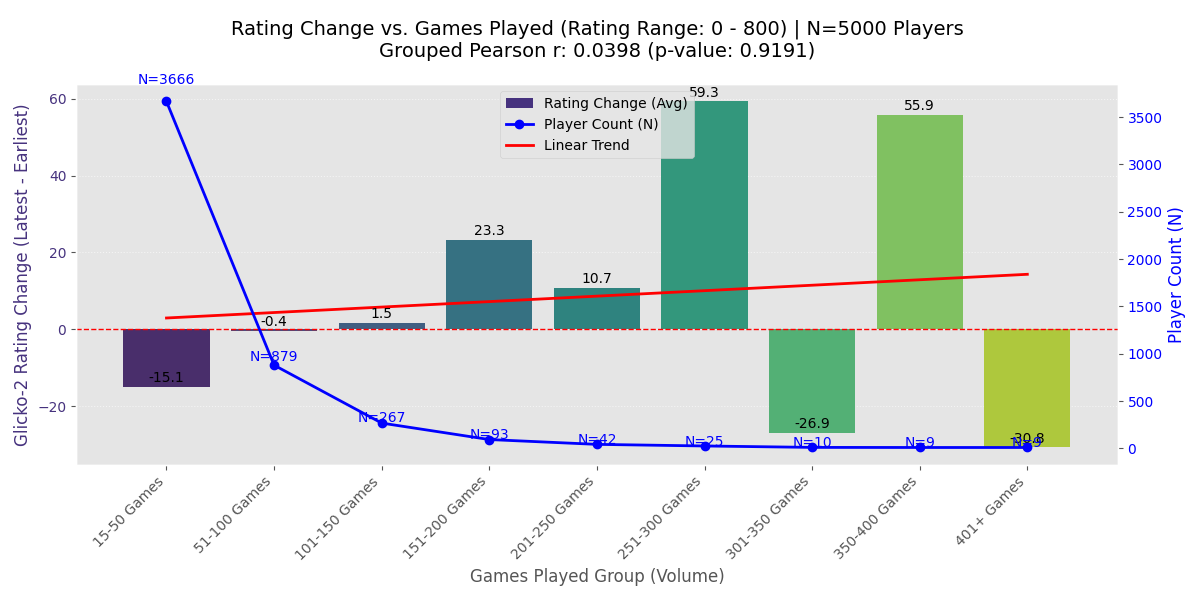
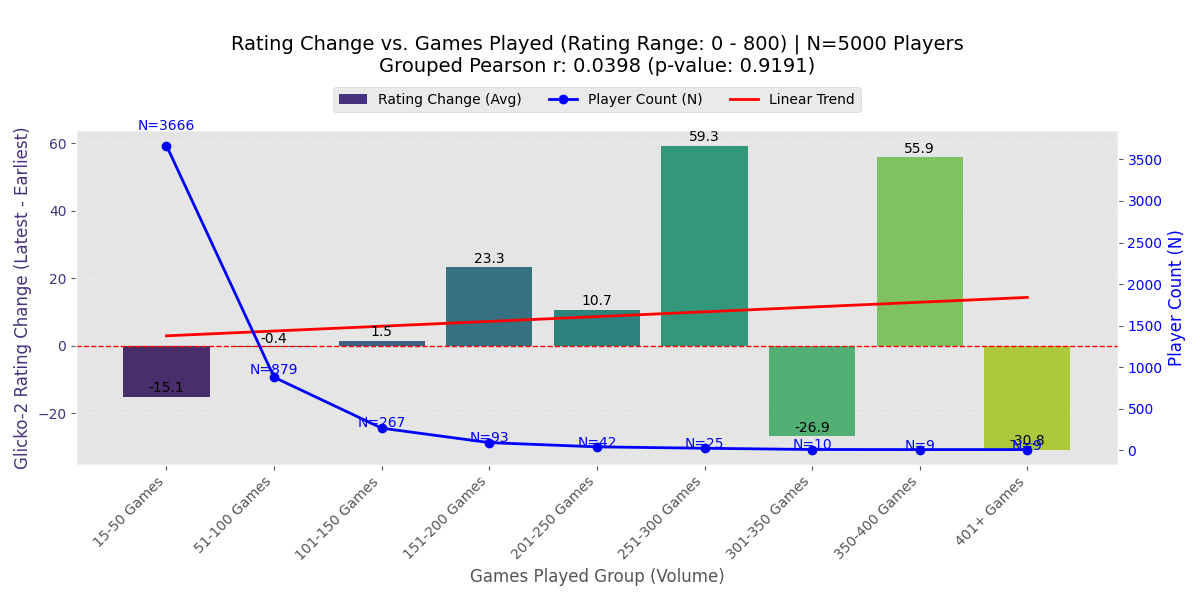
unobscure legend, format p-value, rebuild visualizations

diff --git a/analyze_and_visualize_correlation_games_vs_rating_change.py b/analyze_and_visualize_correlation_games_vs_rating_change.py
@@ -8,18 +8,16 @@ import io
 import re
 import sys
 
-# TODO: investigate 0 p-values: is that due to rounding, or is something wonky happening?
-
 # --- Configuration ---
-INPUT_CSV_PATH = 'lichess-beginner-data-mining/2024_01_rapid_players_rated_801-1600_results.csv'
-OUTPUT_CSV_PATH = 'lichess-beginner-data-mining/2024_01_rapid_players_rated_801-1600_correlation_results.csv'
-OUTPUT_PLOT_PATH = 'lichess-beginner-data-mining/2024_01_rapid_players_rated_801-1600_correlation_games_vs_rating_change.png'
-OUTPUT_BIN_PLOT_PATH = 'lichess-beginner-data-mining/2024_01_rapid_players_rated_801-1600_correlation_rating_gain_by_bin.png'
-OUTPUT_DAYS_PLOT_PATH = 'lichess-beginner-data-mining/2024_01_rapid_players_rated_801-1600_correlation_days_vs_rating_change.png'
-OUTPUT_DAYS_BIN_PLOT_PATH = 'lichess-beginner-data-mining/2024_01_rapid_players_rated_801-1600_correlation_rating_gain_by_days_bin.png'
+INPUT_CSV_PATH = 'lichess-beginner-data-mining/2024_01_rapid_players_rated_0-800_results.csv'
+OUTPUT_CSV_PATH = 'lichess-beginner-data-mining/2024_01_rapid_players_rated_0-800_correlation_results.csv'
+OUTPUT_PLOT_PATH = 'lichess-beginner-data-mining/2024_01_rapid_players_rated_0-800_correlation_games_vs_rating_change.png'
+OUTPUT_BIN_PLOT_PATH = 'lichess-beginner-data-mining/2024_01_rapid_players_rated_0-800_correlation_rating_gain_by_bin.png'
+OUTPUT_DAYS_PLOT_PATH = 'lichess-beginner-data-mining/2024_01_rapid_players_rated_0-800_correlation_days_vs_rating_change.png'
+OUTPUT_DAYS_BIN_PLOT_PATH = 'lichess-beginner-data-mining/2024_01_rapid_players_rated_0-800_correlation_rating_gain_by_days_bin.png'
 
-MIN_RATING_FILTER = 801
-MAX_RATING_FILTER = 1600
+MIN_RATING_FILTER = 0
+MAX_RATING_FILTER = 800
 
 # Define bins for the grouped analysis (Games Played)
 GAME_BINS = [15, 50, 100, 150, 200, 250, 300, 350, 400, np.inf]
@@ -28,6 +26,12 @@ BIN_LABELS = ['15-50 Games', '51-100 Games', '101-150 Games', '151-200 Games', '
 # Bins for days played
 DAYS_BINS = [0, 5, 10, 15, 20, 25, np.inf]
 DAYS_BIN_LABELS = ['1-5 Days', '6-10 Days', '11-15 Days', '16-20 Days', '21-25 Days', '26-30+ Days']
+
+# Helper function for p-value formatting
+def format_p_value(p_value):
+    if p_value < 0.001:
+        return "p < 0.001"
+    return f"p-value: {p_value:.4f}"
 
 # --- Analysis Function ---
 
@@ -74,7 +78,7 @@ def run_correlation_analysis(df: pd.DataFrame):
         ]
     })
     
-    print(f"Raw Pearson Correlation (Games): {correlation_games:.4f} (P-Value: {p_value_games:.4f})")
+    print(f"Raw Pearson Correlation (Games): {correlation_games:.4f} (P-Value: {p_value_games:.4e})")
     
     # ----------------------------------------------------
     # ANALYSIS METHOD 6: PEARSON CORRELATION (Days Played vs. Rating Change)
@@ -90,7 +94,7 @@ def run_correlation_analysis(df: pd.DataFrame):
     ])
     results_df = pd.concat([results_df, days_corr_results], ignore_index=True)
 
-    print(f"Raw Pearson Correlation (Days): {correlation_days:.4f} (P-Value: {p_value_days:.4f})")
+    print(f"Raw Pearson Correlation (Days): {correlation_days:.4f} (P-Value: {p_value_days:.4e})")
 
     # ----------------------------------------------------
     # ANALYSIS METHOD 3: BINNING AND GROUPED AVERAGES (Games Played)
@@ -153,7 +157,7 @@ def run_correlation_analysis(df: pd.DataFrame):
     grouped_correlation_games, grouped_p_value_games = pearsonr(avg_games, avg_gain_games)
 
     print("\n--- Grouped Correlation Analysis (Games Bins) ---")
-    print(f"Grouped Pearson Correlation (Games): {grouped_correlation_games:.4f} (P-Value: {grouped_p_value_games:.4f})")
+    print(f"Grouped Pearson Correlation (Games): {grouped_correlation_games:.4f} (P-Value: {grouped_p_value_games:.4e})")
     
     # Append results to the main results DataFrame
     grouped_corr_results_games = pd.DataFrame([
@@ -174,7 +178,7 @@ def run_correlation_analysis(df: pd.DataFrame):
     grouped_correlation_days, grouped_p_value_days = pearsonr(avg_days, avg_gain_days)
 
     print("\n--- Grouped Correlation Analysis (Days Bins) ---")
-    print(f"Grouped Pearson Correlation (Days): {grouped_correlation_days:.4f} (P-Value: {grouped_p_value_days:.4f})")
+    print(f"Grouped Pearson Correlation (Days): {grouped_correlation_days:.4f} (P-Value: {grouped_p_value_days:.4e})")
     
     # Append results to the main results DataFrame
     grouped_corr_results_days = pd.DataFrame([
@@ -210,7 +214,7 @@ def run_correlation_analysis(df: pd.DataFrame):
     plt.xlim(15, 400) 
     
     plt.title(
-        f'Games Played vs. Rating Change ({RATING_RANGE_STR}) | N={TOTAL_PLAYERS_N} Players\nRaw Pearson r: {correlation_games:.4f} (p-value: {p_value_games:.4f})', 
+        f'Games Played vs. Rating Change ({RATING_RANGE_STR}) | N={TOTAL_PLAYERS_N} Players\nRaw Pearson r: {correlation_games:.4f} ({format_p_value(p_value_games)})', 
         fontsize=14
     )    
     plt.xlabel('Total Games Played in January (X)')
@@ -245,7 +249,7 @@ def run_correlation_analysis(df: pd.DataFrame):
     plt.xlim(0, 31) 
     
     plt.title(
-        f'Days Played vs. Rating Change ({RATING_RANGE_STR}) | N={TOTAL_PLAYERS_N} Players\nRaw Pearson r: {correlation_days:.4f} (p-value: {p_value_days:.4f})', 
+        f'Days Played vs. Rating Change ({RATING_RANGE_STR}) | N={TOTAL_PLAYERS_N} Players\nRaw Pearson r: {correlation_days:.4f} ({format_p_value(p_value_days)})', 
         fontsize=14
     )    
     plt.xlabel('Number of Days Played in January (X)')
@@ -294,9 +298,9 @@ def run_correlation_analysis(df: pd.DataFrame):
     # ---------------------------------------------
     
     ax1.set_title(
-        f'Rating Change vs. Games Played ({RATING_RANGE_STR}) | N={TOTAL_PLAYERS_N} Players\nGrouped Pearson r: {grouped_correlation_games:.4f} (p-value: {grouped_p_value_games:.4f})', 
+        f'Rating Change vs. Games Played ({RATING_RANGE_STR}) | N={TOTAL_PLAYERS_N} Players\nGrouped Pearson r: {grouped_correlation_games:.4f} ({format_p_value(grouped_p_value_games)})', 
         fontsize=14, 
-        y=1.05
+        y=1.15
     )
     
     ax1.set_xlabel('Games Played Group (Volume)')
@@ -346,7 +350,14 @@ def run_correlation_analysis(df: pd.DataFrame):
         )
         
     bar_legend = [plt.Rectangle((0,0),1,1, fc=sns.color_palette('viridis')[0])]
-    ax1.legend(bar_legend + line_plot + reg_plot_games, ['Rating Change (Avg)', 'Player Count (N)', 'Linear Trend'], loc='upper center')
+    ax1.legend(
+        bar_legend + line_plot + reg_plot_games, 
+        ['Rating Change (Avg)', 'Player Count (N)', 'Linear Trend'], 
+        loc='upper center',
+        bbox_to_anchor=(0.5, 1.15), # Places the legend above the chart title box
+        ncol=3,
+        frameon=True
+    )
     
     fig.tight_layout() 
     
@@ -388,9 +399,9 @@ def run_correlation_analysis(df: pd.DataFrame):
     # ---------------------------------------------
 
     ax1.set_title(
-        f'Rating Change vs. Days Played ({RATING_RANGE_STR}) | N={TOTAL_PLAYERS_N} Players\nGrouped Pearson r: {grouped_correlation_days:.4f} (p-value: {grouped_p_value_days:.4f})', 
+        f'Rating Change vs. Days Played ({RATING_RANGE_STR}) | N={TOTAL_PLAYERS_N} Players\nGrouped Pearson r: {grouped_correlation_days:.4f} ({format_p_value(grouped_p_value_days)})', 
         fontsize=14, 
-        y=1.05
+        y=1.15
     )
     
     ax1.set_xlabel('Days Played Group (Volume)')
@@ -440,7 +451,14 @@ def run_correlation_analysis(df: pd.DataFrame):
         )
         
     bar_legend = [plt.Rectangle((0,0),1,1, fc=sns.color_palette('magma')[0])]
-    ax1.legend(bar_legend + line_plot + reg_plot_days, ['Rating Change (Avg)', 'Player Count (N)', 'Linear Trend'], loc='upper center')
+    ax1.legend(
+        bar_legend + line_plot + reg_plot_days, 
+        ['Rating Change (Avg)', 'Player Count (N)', 'Linear Trend'], 
+        loc='upper center',
+        bbox_to_anchor=(0.5, 1.15), # Places the legend above the chart title box
+        ncol=3,
+        frameon=True
+    )
     
     fig.tight_layout() 
     
